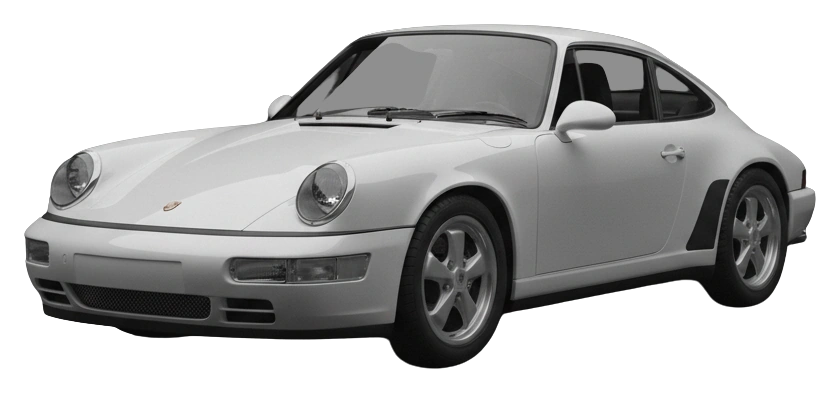
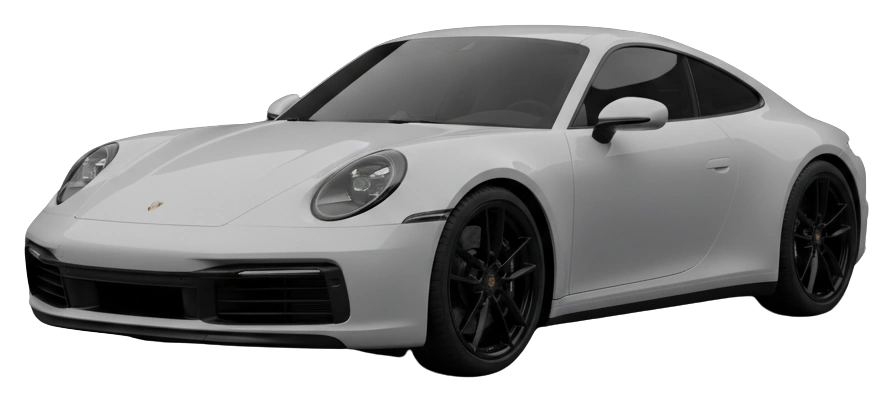
feat: finish the vehicle image set — 155 slots, 12 shots per car
Three fixes and the deletion the inspection called for.

911 generation. "classic round headlights" in the 911 desc pulled three
of its five swatches to an air-cooled-era car while the card and
obsidian black stayed modern, so the swatch row showed two different
911s. The desc now pins the generation by name — current-generation 992
— and by the details only that car has: modern LED headlights, a
full-width rear light bar, flush pop-out door handles. Silver, glacier
white and midnight black regenerated against it. All five are now the
same era.

Deep navy replaced by midnight black. "Deep navy so dark it reads almost
black rather than blue" came back blue on all twelve, measured at
0.38-4.76% saturated pixels — the most colourful frames in a library
whose STYLE clause allows no saturated colour anywhere. The qualifier
loses to the colour word, so the colour word is now black and the
undertone is the qualifier: black paint with a faint cool undertone
visible only in the highlights. Regenerated all twelve; saturation drops
to 0.02-0.62%, and ten of the twelve sit under 0.4%. Files renamed
colour-midnight-black.webp and the colours array in src/data/vehicles.ts
follows.

Rear shots deleted, all twelve, slot and file. A rear three-quarter
points the camera at the two things STYLE spends its length avoiding:
four had readable model lettering across the tailgate, six had saturated
red tail lamps, one came back as the wrong generation of 911. The angle
[…]

diff --git a/src/data/vehicles.ts b/src/data/vehicles.ts
@@ -83,7 +83,7 @@ export const VEHICLES: Vehicle[] = [
     stockNumber: 'AUR-1041',
     description:
       'The long-wheelbase S-Class is the quietest car in our showroom. It rides on air suspension that reads the road ahead, and the rear cabin is closer to a private room than a back seat. Finished in obsidian black over a cream interior, with chrome window surrounds and multi-spoke alloys.',
-    colours: ['obsidian black metallic', 'graphite grey', 'glacier white', 'silver', 'deep navy'],
+    colours: ['obsidian black metallic', 'graphite grey', 'glacier white', 'silver', 'midnight black'],
     specs: {
       engine: '4.0-litre twin-turbo V8 with mild hybrid',
       power: '496 hp',
@@ -120,7 +120,7 @@ export const VEHICLES: Vehicle[] = [
     stockNumber: 'AUR-1042',
     description:
       'A family SUV that behaves like something considerably smaller. The AMG straight-six pulls hard from low revs, and the air suspension keeps the body flat through corners without punishing anyone in the back. Polar white with a dark grille, dark alloys and red brake calipers.',
-    colours: ['polar white', 'obsidian black', 'graphite grey', 'silver', 'deep navy'],
+    colours: ['polar white', 'obsidian black', 'graphite grey', 'silver', 'midnight black'],
     specs: {
       engine: '3.0-litre turbocharged inline-six with electric assist',
       power: '429 hp',
@@ -157,7 +157,7 @@ export const VEHICLES: Vehicle[] = [
     stockNumber: 'AUR-1043',
     description:
       'Four doors, four seats, and a V8 that makes no attempt to be discreet. The GT 63 sits low and wide, with rear-axle steering that makes it far more agile than its size suggests. Matte graphite grey over black, on dark forged wheels.',
-    colours: ['matte graphite grey', 'obsidian black', 'glacier white', 'silver', 'deep navy'],
+    colours: ['matte graphite grey', 'obsidian black', 'glacier white', 'silver', 'midnight black'],
     specs: {
       engine: '4.0-litre twin-turbo V8',
       power: '577 hp',
@@ -196,7 +196,7 @@ export const VEHICLES: Vehicle[] = [
     stockNumber: 'AUR-1044',
     description:
       'The A7 solves a problem most saloons ignore: the boot. Its fastback tailgate opens to a genuinely useful load space without spoiling the roofline. Daytona grey, with a full-width rear light bar and a cabin trimmed in dark leather and open-pore wood.',
-    colours: ['daytona grey', 'obsidian black', 'glacier white', 'silver', 'deep navy'],
+    colours: ['daytona grey', 'obsidian black', 'glacier white', 'silver', 'midnight black'],
     specs: {
       engine: '3.0-litre turbocharged V6 with mild hybrid',
       power: '335 hp',
@@ -233,7 +233,7 @@ export const VEHICLES: Vehicle[] = [
     stockNumber: 'AUR-1045',
     description:
       'A coupe roofline on a full-size SUV, which usually means a compromise somewhere. Here it costs a little rear headroom and buys a car that looks considerably lower than it is. Glacier white with black lower cladding and large polished alloys.',
-    colours: ['glacier white', 'obsidian black', 'graphite grey', 'silver', 'deep navy'],
+    colours: ['glacier white', 'obsidian black', 'graphite grey', 'silver', 'midnight black'],
     specs: {
       engine: '3.0-litre turbocharged V6 with mild hybrid',
       power: '335 hp',
@@ -270,7 +270,7 @@ export const VEHICLES: Vehicle[] = [
     stockNumber: 'AUR-1046',
     description:
       'Electric, and not apologetic about it. The RS e-tron GT delivers its full torque instantly and silently, which takes most people one launch to adjust to. Mythos black, with a closed front and a stance wide enough to look planted standing still.',
-    colours: ['mythos black metallic', 'graphite grey', 'glacier white', 'silver', 'deep navy'],
+    colours: ['mythos black metallic', 'graphite grey', 'glacier white', 'silver', 'midnight black'],
     specs: {
       engine: 'Dual electric motors, 93 kWh battery',
       power: '637 hp',
@@ -309,7 +309,7 @@ export const VEHICLES: Vehicle[] = [
     stockNumber: 'AUR-1047',
     description:
       'The i4 M50 is the easiest car here to recommend to someone moving to electric for the first time. It drives like a 4 Series, charges quickly enough for real journeys, and the M-tuned chassis makes it genuinely quick. Mineral white with a closed grille and dark trim.',
-    colours: ['mineral white', 'obsidian black', 'graphite grey', 'silver', 'deep navy'],
+    colours: ['mineral white', 'obsidian black', 'graphite grey', 'silver', 'midnight black'],
     specs: {
       engine: 'Dual electric motors, 81 kWh battery',
       power: '536 hp',
@@ -346,7 +346,7 @@ export const VEHICLES: Vehicle[] = [
     stockNumber: 'AUR-1048',
     description:
       'Seven seats, and the third row is one adults will actually sit in. The X7 is the largest car in our showroom and hides it well on the move, thanks to air suspension on both axles. Carbon black metallic, with split headlights and chrome trim.',
-    colours: ['carbon black metallic', 'graphite grey', 'glacier white', 'silver', 'deep navy'],
+    colours: ['carbon black metallic', 'graphite grey', 'glacier white', 'silver', 'midnight black'],
     specs: {
       engine: '3.0-litre turbocharged inline-six with mild hybrid',
       power: '375 hp',
@@ -383,7 +383,7 @@ export const VEHICLES: Vehicle[] = [
     stockNumber: 'AUR-1049',
     description:
       'The M4 Competition is the most focused car in the showroom and makes no secret of it. With xDrive it is usable year-round, and the rear-drive mode is still there when the road is dry. Brilliant white with a carbon roof, wide arches and dark forged wheels.',
-    colours: ['brilliant white', 'obsidian black', 'graphite grey', 'silver', 'deep navy'],
+    colours: ['brilliant white', 'obsidian black', 'graphite grey', 'silver', 'midnight black'],
     specs: {
       engine: '3.0-litre twin-turbo inline-six',
       power: '523 hp',
@@ -422,7 +422,7 @@ export const VEHICLES: Vehicle[] = [
     stockNumber: 'AUR-1050',
     description:
       'The Taycan is the electric car that convinced sceptics, largely because it drives like a Porsche first and an EV second. Its 800-volt architecture charges faster than almost anything else on the road. Volcano grey, sitting very low, with a full-width light bar.',
-    colours: ['volcano grey metallic', 'obsidian black', 'glacier white', 'silver', 'deep navy'],
+    colours: ['volcano grey metallic', 'obsidian black', 'glacier white', 'silver', 'midnight black'],
     specs: {
       engine: 'Dual electric motors, 105 kWh battery',
       power: '536 hp',
@@ -459,7 +459,7 @@ export const VEHICLES: Vehicle[] = [
     stockNumber: 'AUR-1051',
     description:
       'The Cayenne Coupe trades a little practicality for a considerably better profile, and the V8 makes a sound no electric SUV can match. Jet black metallic with body-coloured arches and polished alloys, over a black interior.',
-    colours: ['jet black metallic', 'graphite grey', 'glacier white', 'silver', 'deep navy'],
+    colours: ['jet black metallic', 'graphite grey', 'glacier white', 'silver', 'midnight black'],
     specs: {
       engine: '4.0-litre twin-turbo V8',
       power: '468 hp',
@@ -496,7 +496,7 @@ export const VEHICLES: Vehicle[] = [
     stockNumber: 'AUR-1052',
     description:
       'Sixty years of iteration and the engine is still in the wrong place, which is exactly why it drives the way it does. The 911 remains usable every day in a way its rivals are not. Agate grey metallic, on centre-lock wheels, with a black interior.',
-    colours: ['agate grey metallic', 'obsidian black', 'glacier white', 'silver', 'deep navy'],
+    colours: ['agate grey metallic', 'obsidian black', 'glacier white', 'silver', 'midnight black'],
     specs: {
       engine: '3.0-litre twin-turbo flat-six',
       power: '473 hp',
